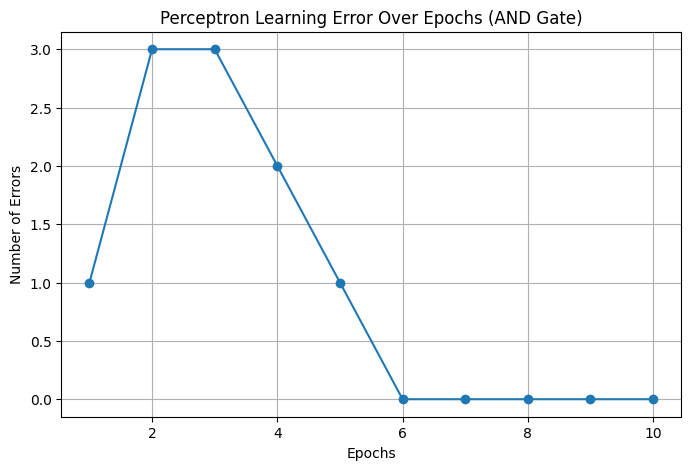
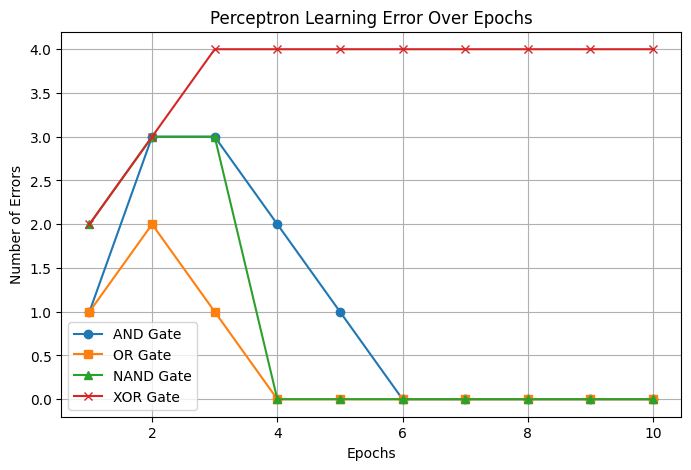
update config

diff --git a/_pages/Study/Linux/Day3.md b/_pages/Study/Linux/Day3.md
@@ -28,12 +28,6 @@ bookmark: true
 
 ---
 
-### 📘 수식 표현
-
-
-
----
-
 ### 🎯 요약
 
 - 퍼셉트론은 **이진 분류 문제**를 해결할 수 있는 가장 기본적인 신경망 구조이다.
@@ -43,57 +37,93 @@ bookmark: true
 # 👨💻 실습
 ---
 
-### 💡 Code : AND Gate Perceptron
+### 💡 Code : AND & OR & NAND & XOR Gate Perceptron
 
 ```py
-# AND Gate Perceptron
+# AND & OR & NAND & XOR Gate Perceptron
 import numpy as np
 import matplotlib.pyplot as plt
 
 class Perceptron:
-def __init__(self, input_size, lr=0.1, epochs=10):
-    self.weights = np.zeros(input_size)   # 입력 개수만큼 0으로 초기화된 가중치
-    self.bias = 0                          # 바이어스 초기값 0
-    self.lr = lr                           # 학습률 (learning rate)
-    self.epochs = epochs                   # 학습 반복 횟수
-    self.errors = []                       # epoch별 오류 저장 리스트
+    def __init__(self, input_size, lr=0.1, epochs=10):
+        self.weights = np.zeros(input_size)
+        self.bias = 0
+        self.lr = lr
+        self.epochs = epochs
+        self.errors = []
 
     def activation(self, x):
-    return np.where(x > 0, 1, 0)           # 단위 계단 함수
+        return np.where(x > 0, 1, 0)
 
     def predict(self, x):
-    linear_output = np.dot(x, self.weights) + self.bias  # 선형 조합
-    return self.activation(linear_output)                # 활성화 함수 적용
+        linear_output = np.dot(x, self.weights) + self.bias
+        return self.activation(linear_output)
 
     def train(self, X, y):
-    for epoch in range(self.epochs):
-        total_error = 0
-        for xi, target in zip(X, y):             # 각 데이터 샘플(xi)과 정답(target)
-            prediction = self.predict(xi)        # 예측
-            update = self.lr * (target - prediction)  # 오차만큼 업데이트
-            self.weights += update * xi
-            self.bias += update
-            total_error += int(update != 0.0)     # 업데이트 발생 여부 저장
-        self.errors.append(total_error)
-        print(f"Epoch {epoch+1}/{self.epochs}, Errors: {total_error}")
+        for epoch in range(self.epochs):
+            total_error = 0
+            for xi, target in zip(X, y):
+                prediction = self.predict(xi)
+                update = self.lr * (target - prediction)
+                self.weights += update * xi
+                self.bias += update
+                total_error += int(update != 0.0)
+            self.errors.append(total_error)
+            print(f"Epoch {epoch+1}/{self.epochs}, Errors: {total_error}")
 
-# AND 게이트 데이터
+# AND 게이트 데이터 및 학습
 X_and = np.array([[0,0],[0,1],[1,0],[1,1]])
 y_and = np.array([0,0,0,1])
 
-# 퍼셉트론 모델 훈련
+print(" AND Gate Training")
 ppn_and = Perceptron(input_size=2)
 ppn_and.train(X_and, y_and)
 
-# 예측 결과 확인
-print("\nAND Gate Test:")
+print("\n AND Gate Test:")
 for x in X_and:
     print(f"Input: {x}, Predicted Output: {ppn_and.predict(x)}")
+
+# OR 게이트 데이터 및 학습
+X_or = np.array([[0,0],[0,1],[1,0],[1,1]])
+y_or = np.array([0,1,1,1])
+
+print("\n OR Gate Training")
+ppn_or = Perceptron(input_size=2)
+ppn_or.train(X_or, y_or)
+
+print("\n OR Gate Test:")
+for x in X_or:
+    print(f"Input: {x}, Predicted Output: {ppn_or.predict(x)}")
+
+# NAND 게이트 데이터 및 학습
+X_nand = np.array([[0,0],[0,1],[1,0],[1,1]])
+y_nand = np.array([1,1,1,0])  # AND와 반대
+
+print("\n NAND Gate Training")
+ppn_nand = Perceptron(input_size=2)
+ppn_nand.train(X_nand, y_nand)
+
+print("\n NAND Gate Test:")
+for x in X_nand:
+    print(f"Input: {x}, Predicted Output: {ppn_nand.predict(x)}")
+
+# XOR 게이트 데이터 및 학습
+X_xor = np.array([[0,0],[0,1],[1,0],[1,1]])
+y_xor = np.array([0,1,1,0])  # 선형 분리 불가능
+
+print("\n XOR Gate Training")
+ppn_xor = Perceptron(input_size=2)
+ppn_xor.train(X_xor, y_xor)
+
+print("\n XOR Gate Test:")
+for x in X_xor:
+    print(f"Input: {x}, Predicted Output: {ppn_xor.predict(x)}")
 ```
 
 ### ✅ Result: AND Gate Perceptron
 
 ```
+ AND Gate Training
 Epoch 1/10, Errors: 1
 Epoch 2/10, Errors: 3
 Epoch 3/10, Errors: 3
@@ -105,31 +135,80 @@ Epoch 8/10, Errors: 0
 Epoch 9/10, Errors: 0
 Epoch 10/10, Errors: 0
 
-AND Gate Test:
+ AND Gate Test:
 Input: [0 0], Predicted Output: 0
 Input: [0 1], Predicted Output: 0
 Input: [1 0], Predicted Output: 0
 Input: [1 1], Predicted Output: 1
+
+ OR Gate Training
+Epoch 1/10, Errors: 1
+Epoch 2/10, Errors: 2
+Epoch 3/10, Errors: 1
+Epoch 4/10, Errors: 0
+Epoch 5/10, Errors: 0
+Epoch 6/10, Errors: 0
+Epoch 7/10, Errors: 0
+Epoch 8/10, Errors: 0
+Epoch 9/10, Errors: 0
+Epoch 10/10, Errors: 0
+
+ OR Gate Test:
+Input: [0 0], Predicted Output: 0
+Input: [0 1], Predicted Output: 1
+Input: [1 0], Predicted Output: 1
+Input: [1 1], Predicted Output: 1
+
+ NAND Gate Training
+Epoch 1/10, Errors: 2
+Epoch 2/10, Errors: 3
+Epoch 3/10, Errors: 3
+Epoch 4/10, Errors: 0
+Epoch 5/10, Errors: 0
+Epoch 6/10, Errors: 0
+Epoch 7/10, Errors: 0
+Epoch 8/10, Errors: 0
+Epoch 9/10, Errors: 0
+Epoch 10/10, Errors: 0
+
+ NAND Gate Test:
+Input: [0 0], Predicted Output: 1
+Input: [0 1], Predicted Output: 1
+Input: [1 0], Predicted Output: 1
+Input: [1 1], Predicted Output: 0
+
+ XOR Gate Training
+Epoch 1/10, Errors: 2
+Epoch 2/10, Errors: 3
+Epoch 3/10, Errors: 4
+Epoch 4/10, Errors: 4
+Epoch 5/10, Errors: 4
+Epoch 6/10, Errors: 4
+Epoch 7/10, Errors: 4
+Epoch 8/10, Errors: 4
+Epoch 9/10, Errors: 4
+Epoch 10/10, Errors: 4
+
+ XOR Gate Test:
+Input: [0 0], Predicted Output: 1
+Input: [0 1], Predicted Output: 1
+Input: [1 0], Predicted Output: 0
+Input: [1 1], Predicted Output: 0
 ```
 
-### 💬 Comment: AND Gate Perceptron
-- 퍼셉트론이 어떻게 논리 연산(AND)을 학습하는지 직관적으로 이해할 수 있었다.
-- 초기 가중치가 전부 0인데도 반복 학습을 통해 원하는 출력을 만들어낸다는 점이 흥미로웠다.
-- 출력이 0 또는 1로만 나오는 이유는 활성화 함수가 계단 함수이기 때문임을 알게 되었다.
-- Epoch를 거치면서 오류가 줄어드는 과정을 통해 학습이 잘 진행되고 있음을 확인할 수 있었다.
-- 단층 퍼셉트론이라서 선형 분리 문제(AND)는 잘 해결되지만, XOR처럼 비선형 문제는 학습이 안될 것 같다는 의문이 생겼다.
 
----
 
-### 💡 Code : 경계 결정 시각화
+### 💡 Code : # 경계 결정 시각화 함수 (AND, OR, NAND, XOR)
 
 ```py
-# 경계 결정 시각화
+# 경계 결정 시각화 함수 (AND, OR, NAND, XOR)
 from matplotlib.colors import ListedColormap
+import matplotlib.pyplot as plt
+import numpy as np
 
-def plot_decision_boundary(X, y, model):
-    cmap_light = ListedColormap(['#FFAAAA', '#AAAAFF'])
-    cmap_bold = ListedColormap(['#FF0000', '#0000FF'])
+def plot_decision_boundary(X, y, model, title='Perceptron Decision Boundary'):
+    cmap_light = ListedColormap(['#FFDDDD', '#DDDDFF'])  # 배경 색상
+    cmap_bold = ListedColormap(['#FF0000', '#0000FF'])   # 점 색상
 
     h = .02  # mesh grid 간격
 
@@ -141,36 +220,50 @@ def plot_decision_boundary(X, y, model):
     Z = model.predict(np.c_[xx.ravel(), yy.ravel()])
     Z = Z.reshape(xx.shape)
 
-    plt.figure(figsize=(8, 6))
+    plt.figure(figsize=(6, 5))
     plt.contourf(xx, yy, Z, cmap=cmap_light)
-
-    # 실제 데이터 포인트 표시
     plt.scatter(X[:, 0], X[:, 1], c=y, cmap=cmap_bold,
                 edgecolor='k', s=100, marker='o')
     plt.xlabel('Input 1')
     plt.ylabel('Input 2')
-    plt.title('Perceptron Decision Boundary')
+    plt.title(title)
+    plt.grid(True)
     plt.show()
 
 # AND 게이트 결정 경계 시각화
-plot_decision_boundary(X_and, y_and, ppn_and)
+plot_decision_boundary(X_and, y_and, ppn_and, title='AND Gate Decision Boundary')
+
+# OR 게이트 결정 경계 시각화
+plot_decision_boundary(X_or, y_or, ppn_or, title='OR Gate Decision Boundary')
+
+# NAND 게이트 결정 경계 시각화
+plot_decision_boundary(X_nand, y_nand, ppn_nand, title='NAND Gate Decision Boundary')
+
+# XOR 게이트 결정 경계 시각화
+plot_decision_boundary(X_xor, y_xor, ppn_xor, title='XOR Gate Decision Boundary')
 ```
 
 ### ✅ Result: 경계 결정 시각화
 
-![alt text](<../../../assets/img/Linux/경계 결정 시각화.png> "경계 결정 시각화")
+![alt text](<../../../assets/img/Linux/AND 게이트 결정 경계 시각화.png> "AND 게이트 결정 경계 시각화")
+
+![alt text](<../../../assets/img/Linux/OR 게이트 결정 경계 시각화.png> ""OR 게이트 결정 경계 시각화")
 
 ---
 
-### 💡 Code : 오류 시각화
+### 💡 Code : # 오류 시각화 (AND, OR, NAND, XOR)
 
 ```py
-# 오류 시각화
+# 오류 시각화 (AND, OR, NAND, XOR)
 plt.figure(figsize=(8, 5))
-plt.plot(range(1, len(ppn_and.errors) + 1), ppn_and.errors, marker='o')
+plt.plot(range(1, len(ppn_and.errors) + 1), ppn_and.errors, marker='o', label='AND Gate')
+plt.plot(range(1, len(ppn_or.errors) + 1), ppn_or.errors, marker='s', label='OR Gate')
+plt.plot(range(1, len(ppn_nand.errors) + 1), ppn_nand.errors, marker='^', label='NAND Gate')
+plt.plot(range(1, len(ppn_xor.errors) + 1), ppn_xor.errors, marker='x', label='XOR Gate')
 plt.xlabel('Epochs')
 plt.ylabel('Number of Errors')
-plt.title('Perceptron Learning Error Over Epochs (AND Gate)')
+plt.title('Perceptron Learning Error Over Epochs')
+plt.legend()
 plt.grid(True)
 plt.show()
 ```
@@ -178,6 +271,9 @@ plt.show()
 ### ✅ Result: 오류 시각화
 
 ![alt text](<../../../assets/img/Linux/오류 시각화.png> "오류 시각화")
+
+### 💬 Comment: AND Gate Perceptron
+- 퍼셉트론이 어떻게 논리 연산(AND)을 학습하는지 직관적으로 이해할 수 있었다.
 
 ---
 
